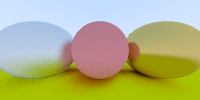
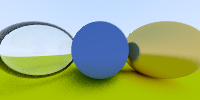
Completed chapter 9

diff --git a/index.html b/index.html
@@ -6,7 +6,7 @@
   –––––––––––––––––––––––––––––––––––––––––––––––––– -->
   <meta charset="utf-8">
   <title>Alan Haugen</title>
-  <meta name="description" content="">
+  <meta name="description" content="Alan Whitburn Haugen's personal website">
   <meta name="author" content="Alan Whitburn Haugen">
 
   <!-- Mobile Specific Metas
@@ -36,7 +36,7 @@
       <div class="two-thirds column" style="margin-top: 25%">
         <h4>Alan Whitburn Haugen's personal website</h4>
         <p>I am interested in Computer Graphics, Games, Music, Drawing, Stories, Computer Vision and Mathematics.</p>
-        <p>I am currently learning more about Computer Graphics, I am writing a pathtracer.</p>
+        <p>I am currently learning more about Computer Graphics, I am writing a path tracer.</p>
         <p><img src="images/img.png"></p>
       </div>
       <div class="one-third column portrait">

diff --git a/material.h b/material.h
@@ -15,6 +15,31 @@ vec3 Reflect(const vec3 &v, const vec3 &n)
     return v - 2*dot(v,n) * n;
 }
 
+bool Refract(const vec3 &v, const vec3 &n, float niOverNt, vec3 &refracted)
+{
+    vec3 uv = unitVector(v);
+    float dt = dot(uv, n);
+    float discriminant = 1.0 - niOverNt * niOverNt * (1 - dt * dt);
+
+    if (discriminant > 0)
+    {
+        refracted = niOverNt * (uv - n*dt) - n * sqrt(discriminant);
+        return true;
+    }
+    else
+    {
+        return false;
+    }
+}
+
+float Schlick(float cosine, float refIdx)
+{
+    float r0 = (1-refIdx) / (1+refIdx);
+    r0 = r0*r0;
+
+    return r0 + (1-r0) * pow((1-cosine), 5);
+}
+
 class Lambertian : public Material
 {
 public:
@@ -34,7 +59,7 @@ public:
 class Metal : public Material
 {
 public:
-    Metal(const vec3 &a, float f) : albedo(a) {if (f < 1) { fuzz = f;} else { fuzz = 1;}}
+    Metal(const vec3 &a, float f = 0.3) : albedo(a) {if (f < 1) { fuzz = f;} else { fuzz = 1;}}
     virtual bool Scatter(const ray &rayIn, const hitRecord &rec, vec3 &attenuation, ray &scattered) const
     {
         vec3 reflected = Reflect(unitVector(rayIn.direction()), rec.normal);
@@ -45,6 +70,57 @@ public:
 
     vec3 albedo;
     float fuzz;
+};
+
+class Dialectric : public Material
+{
+public:
+    Dialectric(float ri) : refIdx(ri) {}
+    virtual bool Scatter(const ray &rayIn, const hitRecord &rec, vec3 &attenuation, ray &scattered) const
+    {
+        vec3 outwardNormal;
+        vec3 reflected = Reflect(rayIn.direction(), rec.normal);
+        float niOverNt;
+        float reflectProb;
+        attenuation = vec3(1.0, 1.0, 1.0);
+        vec3 refracted;
+        float cosine;
+        if (dot(rayIn.direction(), rec.normal) > 0)
+        {
+            outwardNormal = -rec.normal;
+            niOverNt = refIdx;
+            cosine = refIdx * dot(rayIn.direction(), rec.normal) / rayIn.direction().length();
+        }
+        else
+        {
+            outwardNormal = rec.normal;
+            niOverNt = 1.0 / refIdx;
+            cosine = -dot(rayIn.direction(), rec.normal) / rayIn.direction().length();
+        }
+        if (Refract(rayIn.direction(), outwardNormal, niOverNt, refracted))
+        {
+            reflectProb = Schlick(cosine, refIdx);
+        }
+        else
+        {
+            scattered = ray(rec.p, reflected);
+            reflectProb = 1.0;
+
+            return false;
+        }
+        if ((rand() / float(RAND_MAX)) < reflectProb)
+        {
+            scattered = ray(rec.p, reflected);
+        }
+        else
+        {
+            scattered = ray(rec.p, refracted);
+        }
+
+        return true;
+    }
+
+    float refIdx;
 };
 
 #endif // MATERIAL_H

diff --git a/ray.cpp b/ray.cpp
@@ -92,13 +92,14 @@ int main()
 	vec3 vertical(0.0, 2.0, 0.0);
 	vec3 origin(0.0, 0.0, 0.0);
 
-    Hitable *list[4];
-    list[0] = new Sphere(vec3(0, 0, -1), 0.5, new Lambertian(vec3(0.8, 0.3, 0.3)));
+    Hitable *list[5];
+    list[0] = new Sphere(vec3(0, 0, -1), 0.5, new Lambertian(vec3(0.1, 0.2, 0.5)));
     list[1] = new Sphere(vec3(0, -100.5, -1), 100, new Lambertian(vec3(0.8, 0.8, 0.0)));
-    list[2] = new Sphere(vec3(1, 0, -1), 0.5, new Metal(vec3(0.8, 0.6, 0.2), 0.3));
-    list[3] = new Sphere(vec3(-1, 0, -1), 0.5, new Metal(vec3(0.8, 0.8, 0.8), 1.0));
+    list[2] = new Sphere(vec3(1, 0, -1), 0.5, new Metal(vec3(0.8, 0.6, 0.2)));
+    list[3] = new Sphere(vec3(-1, 0, -1), 0.5, new Dialectric(1.5));
+    list[4] = new Sphere(vec3(-1, 0, -1), -0.45, new Dialectric(1.5));
 
-    Hitable *world = new HitableList(list, 4);
+    Hitable *world = new HitableList(list, 5);
 
 	int index = 0;
 
